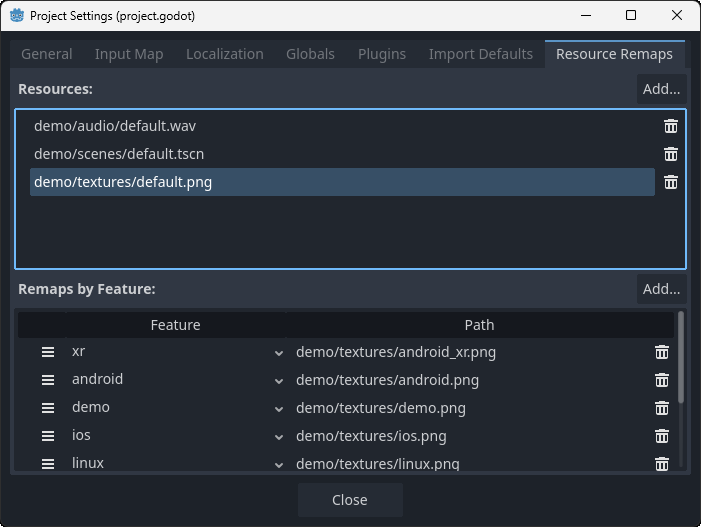
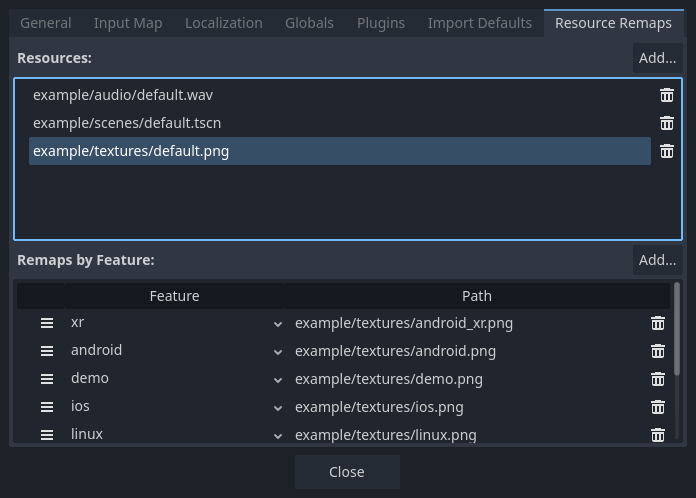
Updated README.md and screenshot

diff --git a/README.md b/README.md
@@ -1,21 +1,20 @@
 # Godot Resource Remaps
-Editor export plugin for Godot that enables remapping resources by feature.
+Editor plugin for Godot that enables remapping resources by feature. An essential plugin for porting your Godot project!
 
 ![Resource Remaps project settings screenshot](./meta/screenshot.png)
 
 # Features
-- Remap any resource or file in your project to be a different one when your project is exported.
-- Remap based on any [feature tag](https://docs.godotengine.org/en/stable/tutorials/export/feature_tags.html) of your export.
-- Any remaps that are not used will not be included in the exported project.
-    - _This means that you can quickly and easily reduce export size when supporting different export platforms._
-- Compliments existing [Resource Export Modes](https://docs.godotengine.org/en/stable/tutorials/export/exporting_projects.html#resource-options) in the Export window.
-- Provides a productive Project Settings GUI for Godot's [EditorExportPlugin](https://docs.godotengine.org/en/stable/classes/class_editorexportplugin.html) functionality.
-    - _Even has undo/redo functionality!_
+- Remap any resource or file in your project to a different one when your project is exported, based on the [feature tags](https://docs.godotengine.org/en/stable/tutorials/export/feature_tags.html) of that export.
+- Quickly and easily reduce export size when supporting different platforms.
+    - _Any remaps that are not used will automatically be excluded from the exported project._
+- Compliments existing [Resource Export Modes](https://docs.godotengine.org/en/stable/tutorials/export/exporting_projects.html#resource-options).
+- A productive Project Settings GUI including undo/redo support.
+- Uses Godot's [EditorExportPlugin](https://docs.godotengine.org/en/stable/classes/class_editorexportplugin.html) functionality.
 
 # Examples
 - Remap high quality music files used in the PC exports to be low quality mobile music files in the mobile exports.
 - Change button call-out textures to represent the controller used by the platform.
-- Make menu scenes to appear different in the mobile game than the PC game.
+- Make menu scenes appear different in the mobile game than the PC game.
 
 # Usage
 ## Installation
@@ -32,16 +31,16 @@ Editor export plugin for Godot that enables remapping resources by feature.
     - _From top to bottom, the first remap in this list to match a feature in the export will be used. Any resources in this list that are not used will be excluded from the export._
 
 ## Inherited Resources and Scenes
-Care must be taken when remapping inherited resources, such as inherited scenes. For example, you cannot remap a base scene with an inherited scene because the base scene would no longer exist for the inherited scene to inherit from.
+Care must be taken when remapping inherited resources, such as inherited scenes. For example, you cannot remap a base scene to an inherited scene because the base scene would no longer exist for the inherited scene to inherit from.
 
-To work around this limitation, use a default scene that inherits from a base scene throughout your project. Then remap the default scene to other scenes that also inherit from the base scene. An example of this approach is included in the demo project of this GitHub repository.
+To work around this limitation, use a default scene that inherits from a base scene throughout your project. Next, remap the default scene to other scenes that also inherit from the base scene. An example of this approach is included in the example project of this GitHub repository.
 
 # Requirements
 ## Godot 4.3
 **Godot 4.3 or later is required for this plugin.**
 
 ## Earlier Versions of Godot
-A custom build of the Godot editor is required for support with versions earlier than 4.3. At minimum, you will need to cherry pick [commit 8e65966](https://github.com/godotengine/godot/commit/8e6596629a7e239bb3b8008b96554850d5688233).
+A custom build of the Godot editor is required for versions earlier than Godot 4.3. At minimum, you will need to cherry pick [commit 8e65966](https://github.com/godotengine/godot/commit/8e6596629a7e239bb3b8008b96554850d5688233).
 
 # Design Rational
 ...Can be found in the [design notes](./meta/DESIGN_NOTES.md) file.

diff --git a/addons/resource_remaps/README.md b/addons/resource_remaps/README.md
@@ -1,21 +1,20 @@
 # Godot Resource Remaps
-Editor export plugin for Godot that enables remapping resources by feature.
+Editor plugin for Godot that enables remapping resources by feature. An essential plugin for porting your Godot project!
 
 ![Resource Remaps project settings screenshot](./meta/screenshot.png)
 
 # Features
-- Remap any resource or file in your project to be a different one when your project is exported.
-- Remap based on any [feature tag](https://docs.godotengine.org/en/stable/tutorials/export/feature_tags.html) of your export.
-- Any remaps that are not used will not be included in the exported project.
-    - _This means that you can quickly and easily reduce export size when supporting different export platforms._
-- Compliments existing [Resource Export Modes](https://docs.godotengine.org/en/stable/tutorials/export/exporting_projects.html#resource-options) in the Export window.
-- Provides a productive Project Settings GUI for Godot's [EditorExportPlugin](https://docs.godotengine.org/en/stable/classes/class_editorexportplugin.html) functionality.
-    - _Even has undo/redo functionality!_
+- Remap any resource or file in your project to a different one when your project is exported, based on the [feature tags](https://docs.godotengine.org/en/stable/tutorials/export/feature_tags.html) of that export.
+- Quickly and easily reduce export size when supporting different platforms.
+    - _Any remaps that are not used will automatically be excluded from the exported project._
+- Compliments existing [Resource Export Modes](https://docs.godotengine.org/en/stable/tutorials/export/exporting_projects.html#resource-options).
+- A productive Project Settings GUI including undo/redo support.
+- Uses Godot's [EditorExportPlugin](https://docs.godotengine.org/en/stable/classes/class_editorexportplugin.html) functionality.
 
 # Examples
 - Remap high quality music files used in the PC exports to be low quality mobile music files in the mobile exports.
 - Change button call-out textures to represent the controller used by the platform.
-- Make menu scenes to appear different in the mobile game than the PC game.
+- Make menu scenes appear different in the mobile game than the PC game.
 
 # Usage
 ## Installation
@@ -32,16 +31,16 @@ Editor export plugin for Godot that enables remapping resources by feature.
     - _From top to bottom, the first remap in this list to match a feature in the export will be used. Any resources in this list that are not used will be excluded from the export._
 
 ## Inherited Resources and Scenes
-Care must be taken when remapping inherited resources, such as inherited scenes. For example, you cannot remap a base scene with an inherited scene because the base scene would no longer exist for the inherited scene to inherit from.
+Care must be taken when remapping inherited resources, such as inherited scenes. For example, you cannot remap a base scene to an inherited scene because the base scene would no longer exist for the inherited scene to inherit from.
 
-To work around this limitation, use a default scene that inherits from a base scene throughout your project. Then remap the default scene to other scenes that also inherit from the base scene. An example of this approach is included in the demo project of this GitHub repository.
+To work around this limitation, use a default scene that inherits from a base scene throughout your project. Next, remap the default scene to other scenes that also inherit from the base scene. An example of this approach is included in the example project of this GitHub repository.
 
 # Requirements
 ## Godot 4.3
 **Godot 4.3 or later is required for this plugin.**
 
 ## Earlier Versions of Godot
-A custom build of the Godot editor is required for support with versions earlier than 4.3. At minimum, you will need to cherry pick [commit 8e65966](https://github.com/godotengine/godot/commit/8e6596629a7e239bb3b8008b96554850d5688233).
+A custom build of the Godot editor is required for versions earlier than Godot 4.3. At minimum, you will need to cherry pick [commit 8e65966](https://github.com/godotengine/godot/commit/8e6596629a7e239bb3b8008b96554850d5688233).
 
 # Design Rational
 ...Can be found in the [design notes](./meta/DESIGN_NOTES.md) file.
